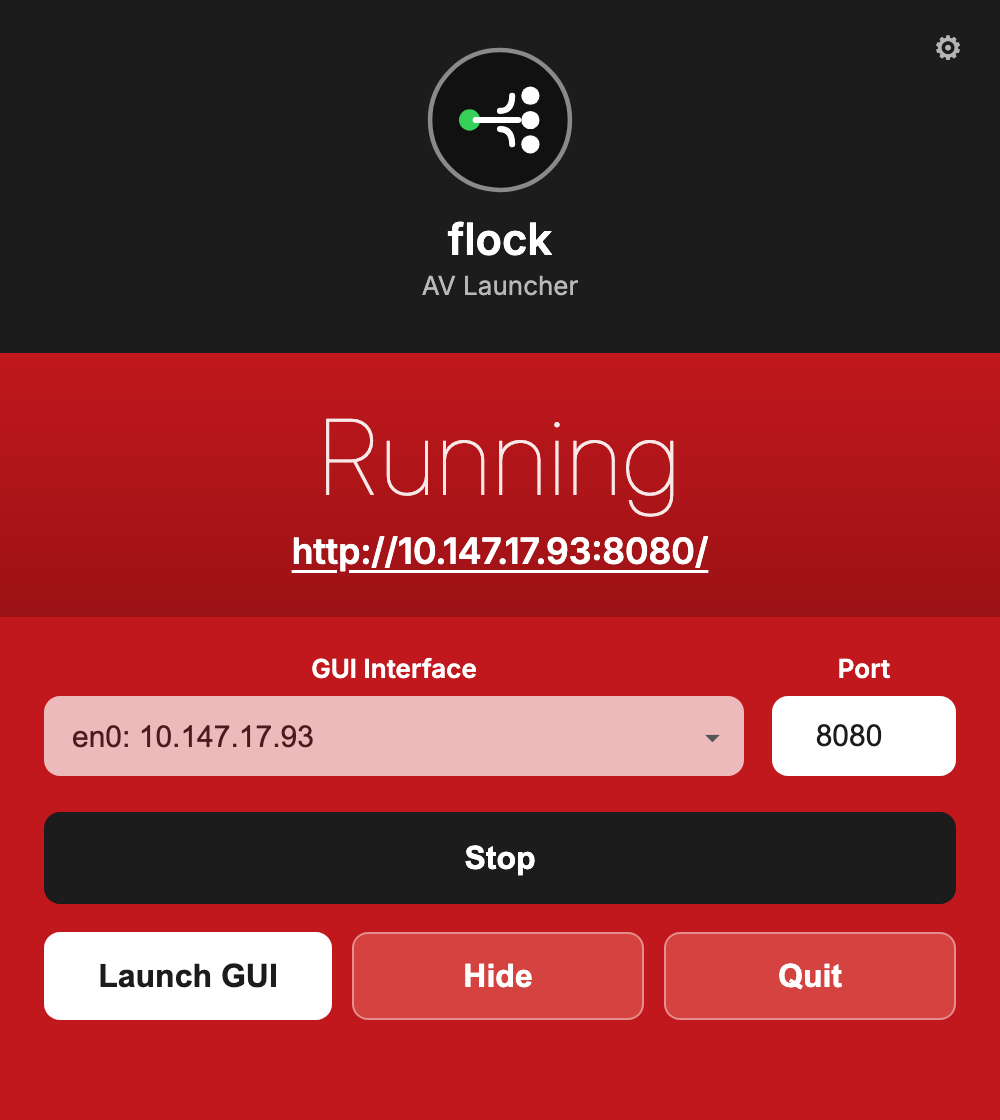
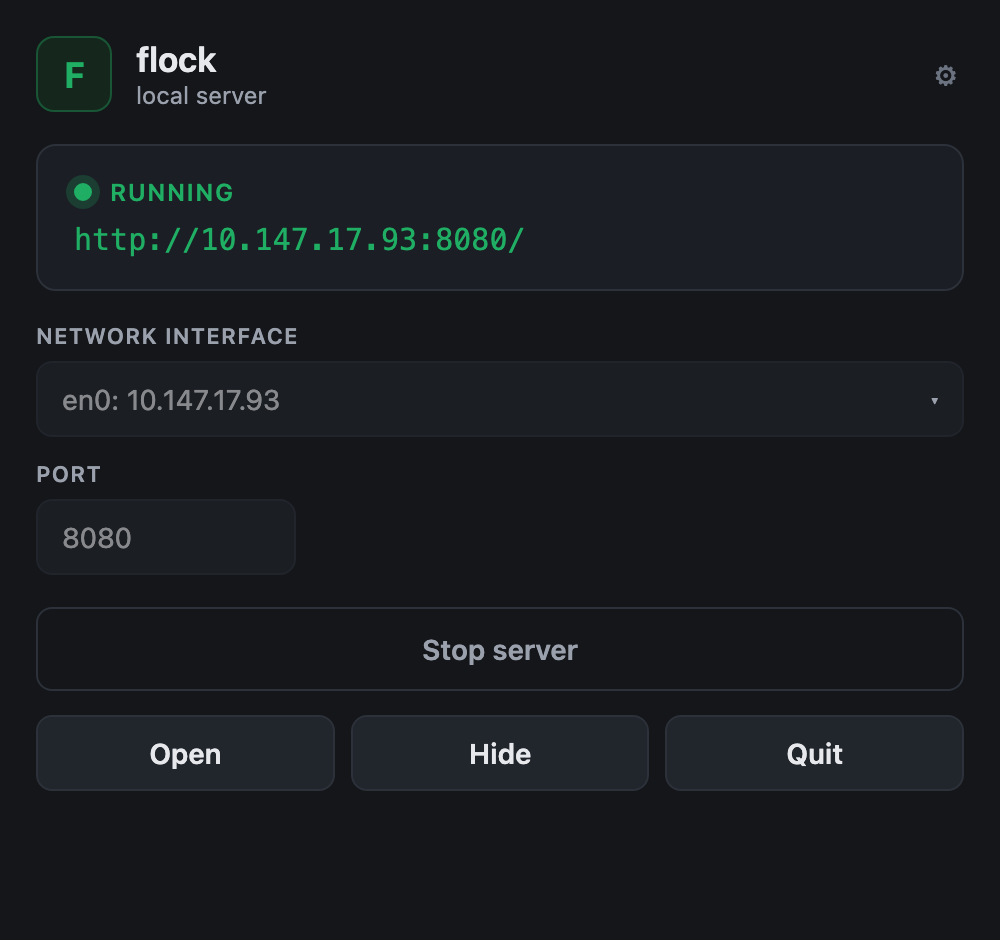
Desktop app: re-theme to flock's palette, ship as the app itself
- Redesigned panel (original card UI themed to flock's emerald web colours;
  drops the Companion-style look).
- Product is now "flock" (was "flock Launcher") — one combined app that embeds
  the flock server; released as v0.1.0.

diff --git a/launcher/README.md b/launcher/README.md
@@ -1,13 +1,13 @@
-# flock Launcher
+# flock — desktop app
 
-A Bitfocus Companion–style **tray launcher** for flock: pick a network
-interface + port, Start/Stop the server, open the web UI, and run it from the
-macOS menu bar. Built with [Tauri v2](https://tauri.app); the shipped `.app`
-**bundles the `flock` binary**, so it runs standalone.
+A small menu-bar desktop app for flock: pick a network interface + port,
+Start/Stop the server, open the web UI, and run it from the macOS menu bar.
+Built with [Tauri v2](https://tauri.app). The `flock` server is **bundled inside
+the app** — it's a single download, nothing to install or wire up.
 
 ![panel](docs/panel.png)
 
-Download the latest `.dmg` from the repo's
+Download the `.dmg` from
 [Releases](https://github.com/allansargeant/flock/releases).
 
 > **Unsigned build.** On first launch macOS Gatekeeper will block it —
@@ -15,38 +15,35 @@ Download the latest `.dmg` from the repo's
 
 ## What it does
 
-- **GUI Interface** — every bindable IPv4 interface, plus "All interfaces (0.0.0.0)".
+- **Network interface** — every bindable IPv4 interface, plus "All interfaces (0.0.0.0)".
 - **Port** — persisted between runs.
-- **Start / Stop** — supervises the bundled `flock` child process.
-- **Launch GUI** — opens `http://<host>:<port>/` in your browser.
-- **Hide** to the tray; **Quit** stops the server and exits.
+- **Start / Stop** — supervises the bundled `flock` server process.
+- **Open** — opens `http://<host>:<port>/` (the fleet web UI) in your browser.
+- **Hide** to the menu bar; **Quit** stops the server and exits.
 
-Host:port is injected by patching flock's own config (the top-level `bind` key)
-and passing the rendered file as flock's positional config argument. The launcher
-runs the server from its writable app-config dir, where flock persists its
-`data/` (registry, app settings).
+The panel is themed to match flock's own web UI. Host:port is injected by
+patching flock's config (top-level `bind`, passed as flock's positional config
+arg); the server runs from a writable app-data dir where it persists `data/`.
+
+## Prefer the terminal / Docker?
+
+The same server is a plain binary — `cargo run -p flock` / `docker compose up`
+(see the repo root README), and the release also attaches the standalone
+`flock` binary.
 
 ## Building from source
 
-The launcher bundles the release `flock` binary. It's git-ignored (it ships in
+The desktop build bundles the release `flock` binary (git-ignored — it ships in
 the Release), so fetch it first:
 
 ```bash
 cd launcher
-./scripts/prepare.sh          # builds flock --release and copies it into src-tauri/bin/
+./scripts/prepare.sh          # builds flock --release, copies it into src-tauri/bin/
 npm install
 npm run tauri build           # -> src-tauri/target/release/bundle/{macos,dmg}/
 ```
 
-Run in dev:
-
-```bash
-npm run tauri dev
-```
-
-## How it relates to av-launcher
-
-This is a self-contained copy of the reusable
-[av-launcher](https://github.com/allansargeant/av-launcher) shell with flock's
-config baked in. The Rust/JS shell is identical across the fleet; only
-`src-tauri/launcher.toml`, the icon, and the bundled binary differ.
+The panel/tray shell is a copy of the reusable
+[av-launcher](https://github.com/allansargeant/av-launcher); only
+`src-tauri/launcher.toml` (config + theme), the icon, and the bundled binary
+are app-specific.

diff --git a/README.md b/README.md
@@ -141,15 +141,15 @@ mDNS) can reach the LAN from inside the container — see
 tradeoff and the bridge-networking alternative if you'd rather keep
 container isolation and rely on manual add only.
 
-### Desktop launcher
+### Desktop app
 
-Prefer not to touch the terminal? A Bitfocus Companion–style menu-bar launcher
-lets you pick the network interface + port, Start/Stop the server, and open the
-web UI — with `flock` bundled inside, so it runs standalone. Grab the `.dmg`
-from [Releases](https://github.com/allansargeant/flock/releases), or see
-[launcher/](launcher/) to build it.
+Prefer not to touch the terminal? A small menu-bar app lets you pick the network
+interface + port, Start/Stop the server, and open the web UI. The `flock` server
+is bundled inside, so it's a single download — nothing to install or wire up.
+Grab the `.dmg` from [Releases](https://github.com/allansargeant/flock/releases),
+or see [launcher/](launcher/) to build it.
 
-<p align="center"><img src="launcher/docs/panel.png" width="320" alt="flock Launcher"></p>
+<p align="center"><img src="launcher/docs/panel.png" width="300" alt="flock desktop app"></p>
 
 ## Architecture
 